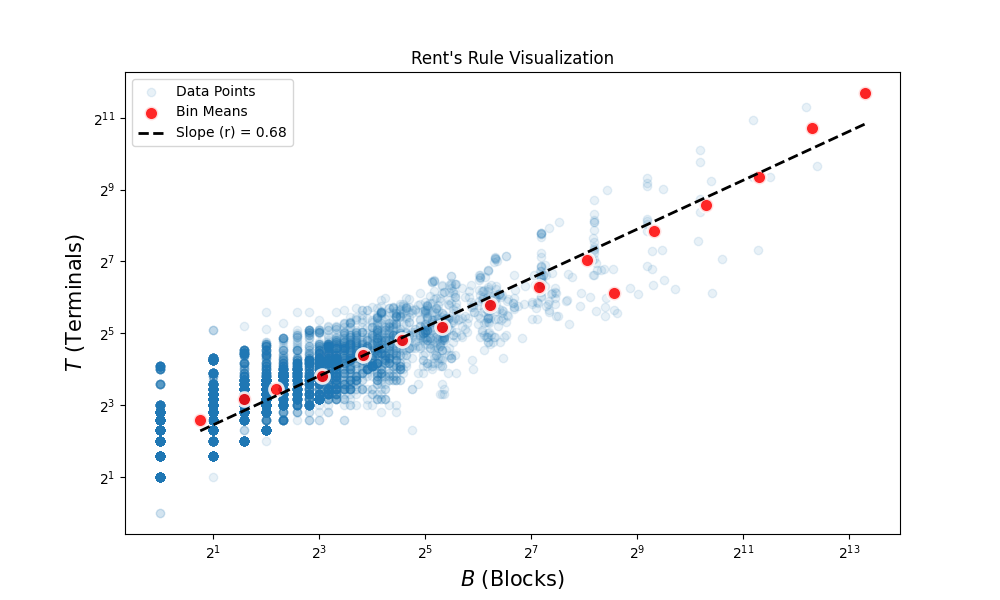
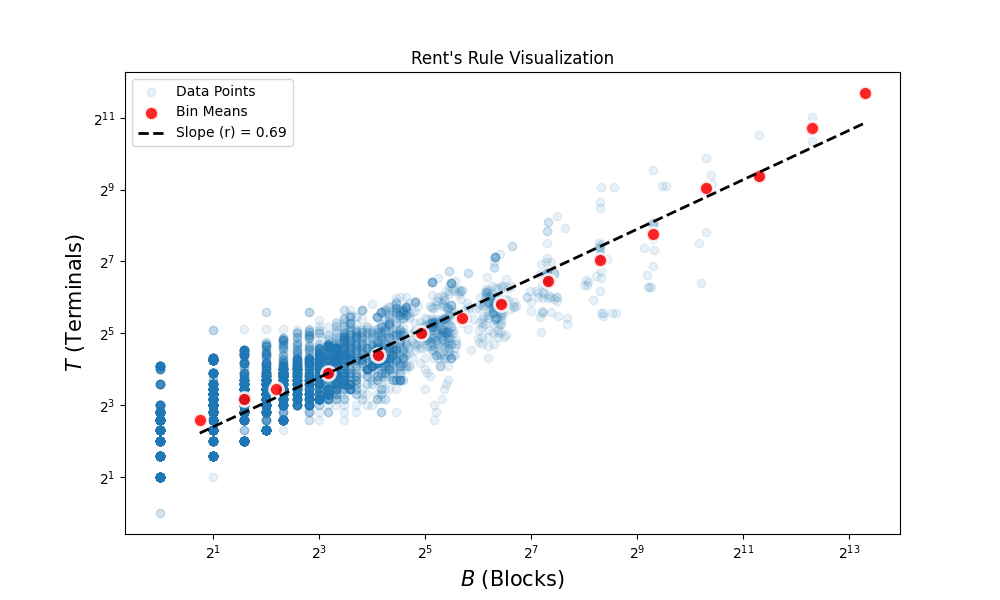
update

diff --git a/post_process/readvpr_bm.py b/post_process/readvpr_bm.py
@@ -1,0 +1,103 @@
+#!/usr/bin/env python
+# -*- coding: utf-8 -*-
+# @Time    : 5/19/24 
+# @Author  : Xiaoke Wang
+# @Group   : UGent HES
+# @File    : readvpr_bm.py
+# @Software: PyCharm, Ghent
+
+
+import os
+import re
+import matplotlib.pyplot as plt
+from scipy.optimize import curve_fit
+import sys
+import csv
+import pandas as pd
+import numpy as np
+
+
+def parse_log_file(filepath):
+    with open(filepath, 'r') as file:
+        content = file.read()
+    blocks_regex = r"Circuit Statistics:\s+Blocks: (\d+)"
+    time_regex = r"The entire flow of VPR took ([\d.]+) seconds"
+    cpd_regex = r"Final critical path delay \(least slack\): ([\d.]+) ns"
+    wirelength_regex = r"Total wirelength: ([\d]+), average net length: ([\d.]+)"
+    estimate_distance_regex = r"BB estimate of min-dist \(placement\) wire length:\s+(\d+)"
+
+    packing_time_regex = r"# Packing took ([\d.]+) seconds"
+    routing_time_regex = r"# Routing took ([\d.]+) seconds"
+    placement_time_regex = r"# Placement took ([\d.]+) seconds"
+
+    # search existing data
+    blocks = re.search(blocks_regex, content)
+    time = re.search(time_regex, content)
+    cpd = re.search(cpd_regex, content)
+    wirelength = re.search(wirelength_regex, content)
+    estimate_distances = re.findall(estimate_distance_regex, content)
+
+
+    packing_time = re.search(packing_time_regex, content)
+    routing_time = re.search(routing_time_regex, content)
+    placement_time = re.search(placement_time_regex, content)
+    return {
+        "blocks": int(blocks.group(1)) if blocks else None,
+        "time": float(time.group(1)) if time else None,
+        "cpd": float(cpd.group(1)) if cpd else None,
+        # "fmax": float(cpd.group(2)) if cpd else None,
+        "total_wirelength": int(wirelength.group(1)) if wirelength else None,
+        "average_net_length": float(wirelength.group(2)) if wirelength else None,
+        "estimate_distance_1": int(estimate_distances[0]) if len(estimate_distances) > 0 else None,
+        "estimate_distance_2": int(estimate_distances[1]) if len(estimate_distances) > 1 else None,
+        "packing_time": float(packing_time.group(1)) if packing_time else None,
+        "routing_time": float(routing_time.group(1)) if routing_time else None,
+        "placement_time": float(placement_time.group(1)) if placement_time else None
+    }
+
+
+# def extract_rent_exponent(filename):
+#     match = re.search(r"rent_exp_([0-9.]*[0-9])", filename)
+#     return float(match.group(1)) if match else None
+
+
+def save_to_csv(data, filename):
+    os.makedirs(os.path.dirname(filename), exist_ok=True)
+    with open(filename, 'w', newline='') as csvfile:
+        fieldnames = data[0].keys()
+        writer = csv.DictWriter(csvfile, fieldnames=fieldnames)
+        writer.writeheader()
+        for row in data:
+            writer.writerow(row)
+
+
+
+
+
+if __name__ == '__main__':
+    if len(sys.argv) != 3:
+        print("Usage: python readvpr_bm.py <log_folder> <output_figures_folder>")
+        sys.exit(1)
+
+    log_folder = sys.argv[1]
+    output_figures_folder = sys.argv[2]
+
+    log_files = [os.path.join(root, f)
+                 for root, dirs, files in os.walk(log_folder)
+                 for f in files if f == "vpr_stdout.log"]
+
+    data = []
+    for filepath in log_files:
+        log_data = {}
+        directory_name = os.path.basename(os.path.dirname(filepath))
+        log_data["name"] = os.path.splitext(directory_name)[0]
+        log_data.update(parse_log_file(filepath))
+
+        data.append(log_data)
+
+    # get the last name for having Blocks amount in csv name
+    csv_filename = os.path.join(output_figures_folder, os.path.basename(os.path.dirname(log_folder)) + '_vpr_data.csv')
+    save_to_csv(data, csv_filename)
+
+    # example for using diff data plotting in a same graph
+    # draw_fit_in_diff_files([ "./rent_sweep/norm_rent_sweep_10000/norm_rent_sweep_10000_vpr_data.csv", "./rent_sweep/norm_rent_sweep_15000/norm_rent_sweep_15000_vpr_data.csv", "./rent_sweep/norm_rent_sweep_20000/norm_rent_sweep_20000_vpr_data.csv"], columns_to_fit = ['time', 'cpd', 'total_wirelength'])

diff --git a/post_process/rent_norm/rent_norm2viz.py b/post_process/rent_norm/rent_norm2viz.py
@@ -149,7 +149,7 @@ def visualize_rent(rent_path, output_filename='Rents_rule_real.png', output_figu
     # # calculate norm bin means
     bin_means = calculate_bin_means_norm(rent_data_flat[:, 0:2], norm_blocks, (np.floor(np.log2(norm_blocks.max()))).astype(int))
     line, slope, _, _ = trend_line(np.log2(bin_means), True)
-
+    print(f"Current net's normalized rent's exponent is {slope}")
     # prev_slope = slope
     # for i in range(10):
     #     y_predict, slope, outlier_mask = trend_line_ml(np.stack((np.log(norm_blocks.astype(float)), np.log(pins.astype(float))), axis=1))

diff --git a/post_process/rent2viz.py b/post_process/rent2viz.py
@@ -118,7 +118,7 @@ def visualize_rent(rent_path, output_filename='Rents_rule_real.png', output_figu
     log_bin_means = np.log2(bin_means)
     line, slope, _, _ = trend_line(log_bin_means)
     # y_pred_log, coef = trend_line_ml(log_bin_means)
-
+    print(f"Current net's rent's exponent is {slope}")
     plt.figure(figsize=(10, 6))
 
     ## Viz linear regression results

diff --git a/post_process/readvpr.py b/post_process/readvpr.py
@@ -128,7 +128,7 @@ def fit_and_plot_exponential(filename, columns_to_fit):
 
 if __name__ == '__main__':
     if len(sys.argv) != 3:
-        print("Usage: python analyze_vpr_logs.py <log_folder> <output_figures_folder>")
+        print("Usage: python readvpr.py <log_folder> <output_figures_folder>")
         sys.exit(1)
 
     log_folder = sys.argv[1]
